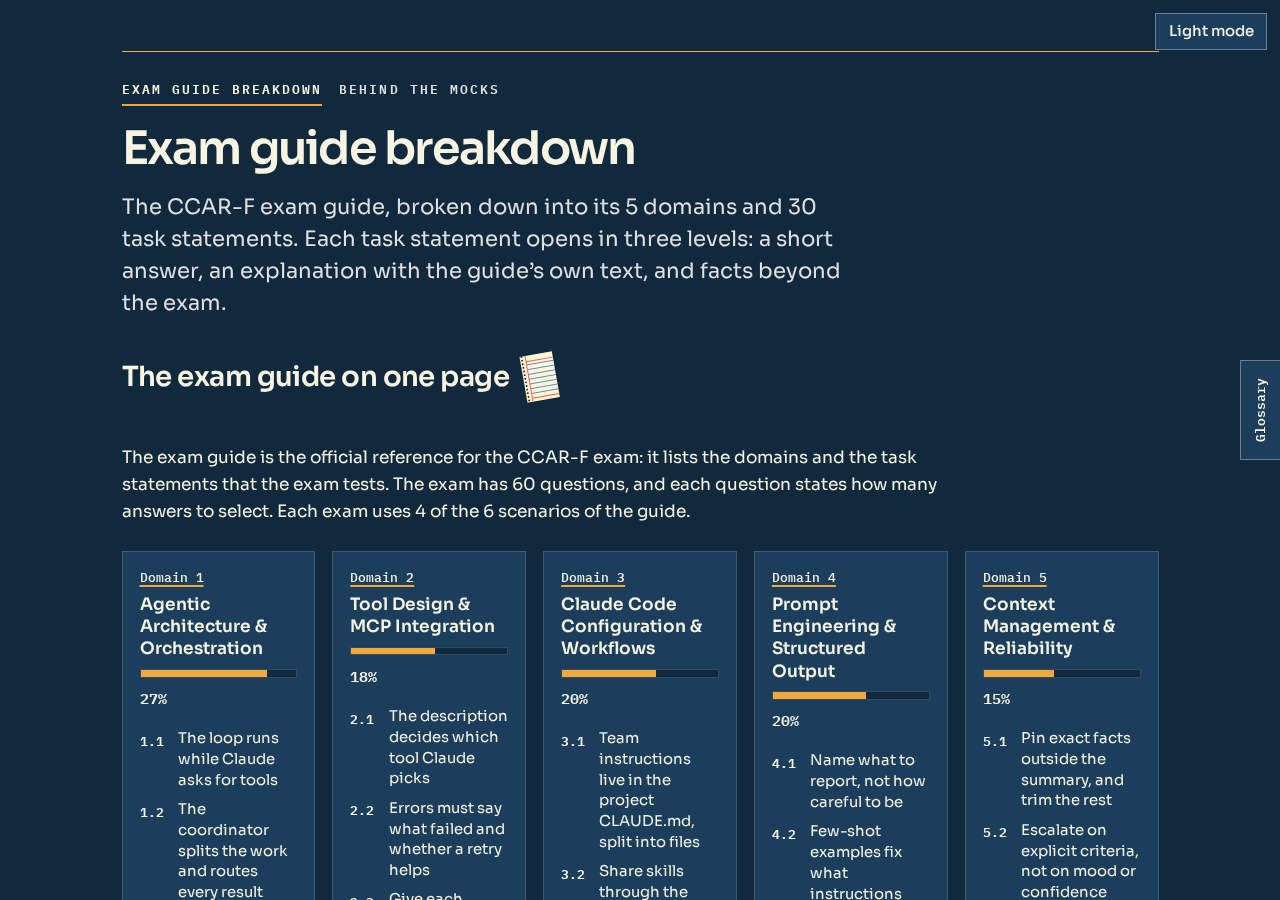
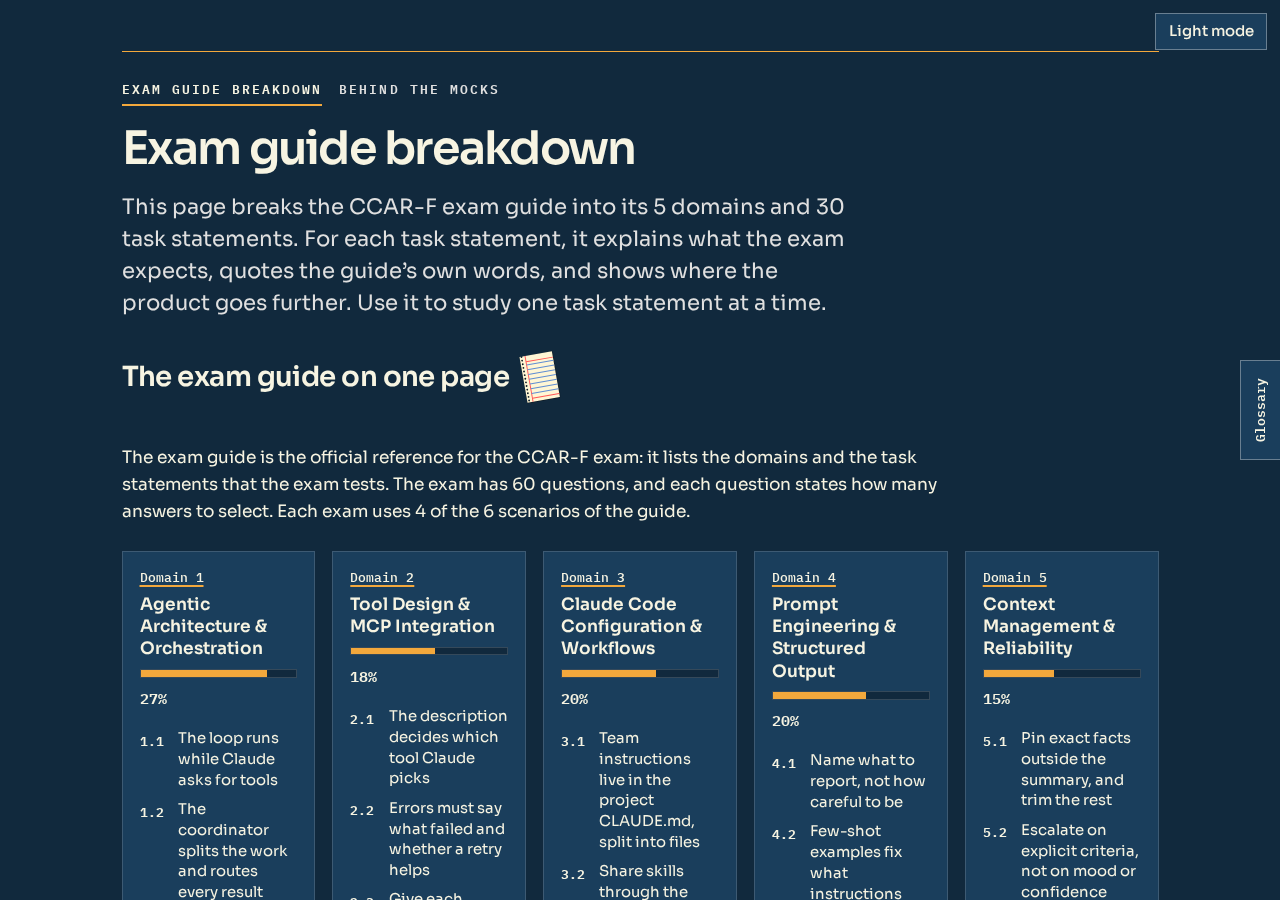
Tab 1: a new lead paragraph (owner, 15 October 2026). check-pages prints All checks passed for tab 1
Claude-Session: https://claude.ai/code/session_01UTkgDqrwTLkESy2KzoY348

Changed region(s): [[0.0938, 0.2178, 0.6562, 0.3422]]

diff --git a/academy/pages/exam-guide-breakdown.html b/academy/pages/exam-guide-breakdown.html
@@ -19,7 +19,7 @@
 <header id="top">
   <nav class="tabs" aria-label="Tabs"><span aria-current="page">Exam guide breakdown</span><a href="behind-the-mocks.html">Behind the mocks</a></nav>
   <h1>Exam guide breakdown</h1>
-  <p class="lead">The CCAR-F exam guide, broken down into its 5 domains and 30 task statements. Each task statement opens in three levels: a short answer, an explanation with the guide&rsquo;s own text, and facts beyond the exam.</p>
+  <p class="lead">This page breaks the CCAR-F exam guide into its 5 domains and 30 task statements. For each task statement, it explains what the exam expects, quotes the guide&rsquo;s own words, and shows where the product goes further. Use it to study one task statement at a time.</p>
 </header>
 <section class="parts" id="map" aria-label="The map of the exam guide">
   <h2 class="with-icon">The exam guide on one page<svg class="h-icon h-page" aria-hidden="true" focusable="false"

diff --git a/academy/build/make-exam-guide-breakdown.py b/academy/build/make-exam-guide-breakdown.py
@@ -3046,7 +3046,7 @@ BODY = """<main>
 <header id="top">
   <nav class="tabs" aria-label="Tabs"><span aria-current="page">Exam guide breakdown</span><a href="%(tab2)s">Behind the mocks</a></nav>
   <h1>%(title)s</h1>
-  <p class="lead">The CCAR-F exam guide, broken down into its 5 domains and %(nts)d task statements. Each task statement opens in three levels: a short answer, an explanation with the guide&rsquo;s own text, and facts beyond the exam.</p>
+  <p class="lead">This page breaks the CCAR-F exam guide into its 5 domains and %(nts)d task statements. For each task statement, it explains what the exam expects, quotes the guide&rsquo;s own words, and shows where the product goes further. Use it to study one task statement at a time.</p>
 </header>
 %(map)s
 %(breakdown)s

diff --git a/academy/journal.md b/academy/journal.md
@@ -16,7 +16,7 @@ One entry for each work session. Newest entry first.
 - Open for the owner: the Overview of 3.2 does not name context: fork (check B3). The paragraphs that read as one long underline (the owner said to take this next).
 - Pushed to GitHub at 29f95da, with the yes of the owner. The owner then asked if the reader checks had found that the text is too dense. They had not: their agents read extracted text, so they never saw the dotted lines. The owner chose, for now, to show the dots only on the fact under the pointer (first on the paragraph, then, at the request of the owner, on the one fact). A touch screen keeps them. The owner agrees that the real cause is text written as a chain of sourced facts, and declined a trial rewrite of part 1.3 for now.
 - Tab 2: the paragraph of the owner below the title has body size and the width of the other paragraphs, 65 characters (owner, 15 October 2026). The owner tried a centered title and paragraph, and took them back: they looked worse.
-- The owner started the manual check and gives notes in batches. Batch 1 (tab 1, top): built at once, the scenario rows of Fig. B open the text of the guide under the row, word for word in paragraphs, in place of a preview card; the three levels are a list; the sentence on the labels of the points has its own line. The other items of batch 1 wait for a decision, one at a time.
+- The owner started the manual check and gives notes in batches. Batch 1 (tab 1, top): built at once, the scenario rows of Fig. B open the text of the guide under the row, word for word in paragraphs, in place of a preview card; the three levels are a list; the sentence on the labels of the points has its own line. The other items of batch 1 wait for a decision, one at a time. Decided: the lead of tab 1 is now "This page breaks the CCAR-F exam guide into its 5 domains and 30 task statements. For each task statement, it explains what the exam expects, quotes the guide's own words, and shows where the product goes further. Use it to study one task statement at a time."
 - Tab 2, Fig. A: each of the 10 boxes opens a popup: what the step takes in and gives out, one fact of the records, links to the task statements that the step uses, and a link to the step. A click no longer jumps to the step. One switch, FIG_A_POPUPS in make-behind-the-mocks.py, brings back the old figure (owner, 15 October 2026). An independent agent checked the popups and found 2 false sentences (code does not make the ideas, and mocks 2 to 4 marked a sample of 20), now fixed.
 - Tab 1: the primer heading is now "Before you start: who runs the tools in each product", because the glossary left the section (decision 0044). A toolbox mark, drawn for it in the colour of the text, stands on its right (owner, 15 October 2026).
 - Tab 1: the notepad mark of the owner (`academy/pages/icons/notepad.svg`, moved from the root folder) stands on the right of the heading "The exam guide on one page", in its own colours, at 1.75 times the text height, tilted by 10 degrees. The page draws it inline with every third ruled line and thicker lines, so the lines show at heading size (owner, 15 October 2026).
